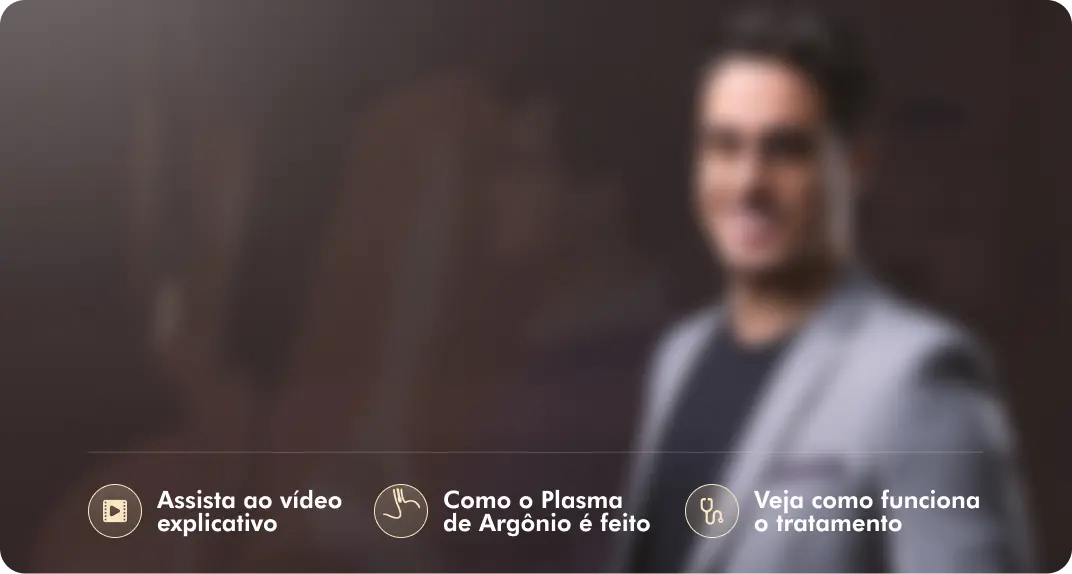
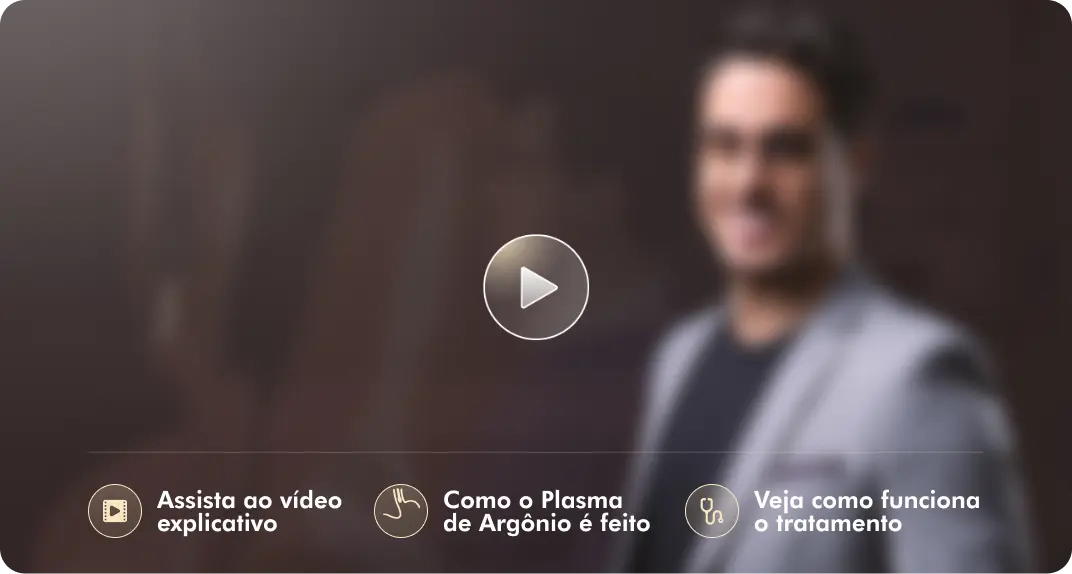
att

Changed region(s): [[0.431, 0.385, 0.5541, 0.5923]]

diff --git a/src/components/Plasma/Advantages.tsx b/src/components/Plasma/Advantages.tsx
@@ -1,0 +1,89 @@
+// src/components/BalaoGastrico/Advantages.tsx
+
+import Ad1 from "../../assets/imagens/balao/ad1.svg"
+import Ad2 from "../../assets/imagens/balao/ad2.svg"
+import Ad3 from "../../assets/imagens/balao/ad3.svg"
+import Seta2 from "../../assets/imagens/gastroplatia/array2.svg"
+
+
+export const Advantages = () => {
+    const cardBackgroundGradient2 = 'linear-gradient(0deg, rgba(70, 179, 60, 1) 23%, rgba(78, 234, 64, 1) 65%)'
+
+    return (
+        <>
+        <section id="vantagens" className="bg-[#F0F2FF] py-20 px-4 border border-t-[#9EB8FF] border-b-[#9EB8FF]">
+            <div className="max-w-6xl mx-auto text-center">
+                <h2 className="text-3xl md:text-4xl font-bold text-[#2D2D2D] mb-16">Vantagens da Balão Gástrico</h2>
+                <div className="grid md:grid-cols-3 gap-8">
+                    {/* Vantagem 1 */}
+                    <div className="bg-white rounded-xl shadow-lg p-8 flex flex-col items-start text-left hover:shadow-2xl transition-shadow duration-300">
+                        <img className="mb-2" src={Ad1} alt="Icone de uma balança" />
+                        <h3 className="font-bold text-lg text-gray-800 mb-3 leading-tight">Procedimento endoscópico, sem cortes</h3>
+                        <p className="text-gray-600 text-sm">
+                            Realizado por via oral, sem necessidade de incisões.
+                        </p>
+                    </div>
+                    {/* Vantagem 2 */}
+                    <div className="bg-white rounded-xl shadow-lg p-8 flex flex-col items-start text-left hover:shadow-2xl transition-shadow duration-300">
+                        <img className="mb-2" src={Ad2} alt="Icone de uma mão segurando um bisturi" />
+                        <h3 className="font-bold text-lg text-gray-800 mb-3 leading-tight">Procedimento endoscópico, sem cortes</h3>
+                        <p className="text-gray-600 text-sm">
+                        Colocado por via oral, sem necessidade de incisões ou cicatrizes. Recuperação rápida e ambulatorial. Não exige internação e permite retorno às atividades em poucos dias.                        </p>
+                    </div>
+                    {/* Vantagem 3 */}
+                    <div className="bg-white rounded-xl shadow-lg p-8 flex flex-col items-start text-left hover:shadow-2xl transition-shadow duration-300">
+                        <img className="mb-2" src={Ad3} alt="Icone significando Reversível" />
+                        <h3 className="font-bold text-lg text-gray-800 mb-3 leading-tight">Reversível</h3>
+                        <p className="text-gray-600 text-sm">
+                            O balão pode ser retirado a qualquer momento, sem comprometer o estômago.
+                        </p>
+                    </div>
+                </div>
+            </div>
+        </section>
+
+        <section id="vantagens" className="bg-[#F0F2FF] py-20 px-4 border ">
+            <div className="max-w-6xl mx-auto text-center">
+                <h2 className="text-3xl md:text-4xl font-bold text-[#2D2D2D] mb-16">Indicações do Balão Gástrico</h2>
+                <div className="grid md:grid-cols-3 gap-8">
+                    {/* Vantagem 1 */}
+                    <div className="bg-white rounded-xl shadow-lg p-8 flex flex-col items-start text-left hover:shadow-2xl transition-shadow duration-300">
+                        <img className="mb-2" src={Ad2} alt="Icone de uma balança" />
+                        <h3 className="font-bold text-lg text-gray-800 mb-3 leading-tight">Pacientes com IMC a partir de 27</h3>
+                        <p className="text-gray-600 text-sm">
+                            Indicado para quem está em sobrepeso ou obesidade e não conseguiu resultado com dieta e exercícios.
+                        </p>
+                    </div>
+                    {/* Vantagem 2 */}
+                    <div className="bg-white rounded-xl shadow-lg p-8 flex flex-col items-start text-left hover:shadow-2xl transition-shadow duration-300">
+                        <img className="mb-2" src={Ad2} alt="Icone de uma mão segurando um bisturi" />
+                        <h3 className="font-bold text-lg text-gray-800 mb-3 leading-tight">Pacientes com comorbidades associadas ao peso</h3>
+                        <p className="text-gray-600 text-sm">
+                        Como diabetes tipo 2, hipertensão, colesterol alto ou problemas ortopédicos.</p>
+                    </div>
+                    {/* Vantagem 3 */}
+                    <div className="bg-white rounded-xl shadow-lg p-8 flex flex-col items-start text-left hover:shadow-2xl transition-shadow duration-300">
+                        <img className="mb-2" src={Ad3} alt="Icone significando Reversível" />
+                        <h3 className="font-bold text-lg text-gray-800 mb-3 leading-tight">Pacientes que não podem ou não desejam cirurgia</h3>
+                        <p className="text-gray-600 text-sm">
+                            Alternativa segura e menos invasiva para quem tem contraindicação ou não quer realizar cirurgia bariátrica.
+                        </p>
+                    </div>
+                </div>
+            </div>
+
+                 <button
+                        className="m-auto mt-9 px-6 py-3 rounded-full flex items-center justify-center text-base font-semibold text-white z-10 group"
+                        style={{ backgroundImage: cardBackgroundGradient2 }}
+                    >
+                        AGENDAR MINHA AVALIAÇÃO
+                        <div className="bg-white/20 rounded-full  ml-4 group-hover:translate-x-1 transition-transform duration-300">
+                            <img src={Seta2} alt="" />
+                        </div>
+                    </button>
+        </section>
+                
+        </>
+
+    );
+};

diff --git a/src/components/Plasma/HowItWorks.tsx b/src/components/Plasma/HowItWorks.tsx
@@ -1,25 +1,22 @@
 import { useState } from "react";
+import { CtaButton } from '../CtaButton';
+
 // Importando a imagem de capa local que já existe no projeto.
 import VideoThumbnail from "../../assets/imagens/plasma/video.webp";
 
 // Componente SVG para a seta
-const Seta2 = () => (
-    <svg className="w-6 h-6" fill="none" stroke="#46B33C" viewBox="0 0 24 24" xmlns="http://www.w3.org/2000/svg">
-        <path strokeLinecap="round" strokeLinejoin="round" strokeWidth="2" d="M14 5l7 7m0 0l-7 7m7-7H3" />
-    </svg>
-);
+
 
 export const HowItWorks = () => {
-    const cardBackgroundGradient2 = 'linear-gradient(0deg, rgba(70, 179, 60, 1) 23%, rgba(78, 234, 64, 1) 65%)';
     const [isPlaying, setIsPlaying] = useState(false);
-    const videoId = "hRQtubuEBaA"; // ID do vídeo do YouTube
+    const videoId = "tOvUH58-83s"; // ID do vídeo do YouTube
 
     const handlePlayClick = () => {
         setIsPlaying(true);
     };
 
     return (
-        <section id="funcionamento" className="bg-[#413E39] py-20 px-4 text-white">
+        <section id="funcionamento" className="bg-[#372D2E] py-20 px-4 text-white">
             <div className="max-w-4xl mx-auto text-center">
                 <p className="text-sm font-semibold text-[#F9E6C1] mb-2 uppercase">Procedimento</p>
                 <h2 className="text-3xl md:text-4xl font-bold mb-4">Como o Plasma de Argônio age no seu corpo?</h2>
@@ -40,7 +37,7 @@ export const HowItWorks = () => {
                     ) : (
                         <iframe
                             className="w-full h-full absolute top-0 left-0"
-                            src={`https://www.youtube.com/embed/${videoId}?autoplay=1&rel=0&start=3`}
+                            src={`https://www.youtube.com/embed/${videoId}?autoplay=1&rel=0&start=0`}
                             allow="accelerometer; autoplay; clipboard-write; encrypted-media; gyroscope; picture-in-picture"
                             allowFullScreen
                             title="Como funciona o Balão Gástrico"
@@ -48,14 +45,12 @@ export const HowItWorks = () => {
                     )}
                 </div>
 
-                {/* Detalhes do Procedimento */}
 
-                <button className="pl-6 pr-2 py-2 rounded-full flex items-center justify-center text-base font-semibold text-white z-10 mx-auto group" style={{ backgroundImage: cardBackgroundGradient2 }}>
+                <div className="mt-12 text-center">
+                    <CtaButton className="m-auto mt-8 self-start">
                     AGENDAR MINHA AVALIAÇÃO
-                    <div className="bg-white rounded-full p-2 ml-4 group-hover:translate-x-1 transition-transform duration-300">
-                        <Seta2 />
-                    </div>
-                </button>
+                    </CtaButton>          
+                </div>
             </div>
         </section>
     );

diff --git a/src/components/Plasma/Benefits.tsx b/src/components/Plasma/Benefits.tsx
@@ -1,0 +1,45 @@
+// src/components/BalaoGastrico/Benefits.tsx
+
+import B1 from "../../assets/imagens/balao/b1.svg"
+import B2 from "../../assets/imagens/balao/b2.svg"
+import B3 from "../../assets/imagens/balao/b3.svg"
+
+
+
+export const Benefits = () => {
+    const sectionBgColor = 'linear-gradient(180deg,rgba(61, 71, 103, 1) 0%, rgba(52, 61, 89, 1) 100%)';
+
+    return (
+        <section id="beneficios" className=" px-4 text-whit bg-white" >
+            <div className="p-17 rounded-2xl max-w-6xl mx-auto" style={{backgroundImage: sectionBgColor}}>
+                <h2 className="text-3xl md:text-4xl font-bold mb-12 text-center">Benefícios do Balão Gástrico</h2>
+                <div className="grid md:grid-cols-3 gap-8">
+                    {/* Benefício 1 */}
+                    <div className="border border-gray-600 rounded-lg p-8 flex flex-col  hover:border-white transition-colors duration-300">
+                        <img src={B1} alt="icone segurando um bisturi"  className="w-7"/>
+                        <h3 className="font-bold mt-2">Recuperar a saciedade</h3>
+                        <p className="text-gray-400 text-sm">
+                        Voltar a sentir satisfação com pequenas porções de alimento.
+                        </p>
+                    </div>
+                    {/* Benefício 2 */}
+                    <div className="border border-gray-600 rounded-lg p-8 flex flex-col  hover:border-white transition-colors duration-300">
+                        <img src={B2} alt="icone"  className="w-7"/>
+                        <h3 className="font-bold mt-2">Retomar o emagrecimento</h3>
+                        <p className="text-gray-400 text-sm">
+                        Eliminar o peso recuperado sem precisar de nova cirurgia.
+                        </p>
+                    </div>
+                    {/* Benefício 3 */}
+                    <div className="border border-gray-600 rounded-lg p-8 flex flex-col  hover:border-white transition-colors duration-300">
+                        <img src={B3} alt="icone" className="w-7" />
+                        <h3 className="font-bold mt-2 leading-tight">Melhorar autoestima e qualidade de vida</h3>
+                        <p className="text-gray-400 text-sm">
+                            Sentir-se novamente no controle do corpo e da saúde
+                        </p>
+                    </div>
+                </div>
+            </div>
+        </section>
+    );
+};

diff --git a/src/components/Plasma/Intro.tsx b/src/components/Plasma/Intro.tsx
@@ -1,0 +1,37 @@
+// src/components/BalaoGastrico/Intro.tsx
+import BalaoImagem from "../../assets/imagens/plasma/argonio.webp";
+import { CtaButton } from '../CtaButton';
+
+
+export const Intro = () => {
+
+    return (
+        <section id="o-que-e" className="bg-white py-20 px-4 text-gray-800">
+            <div className="max-w-6xl mx-auto grid md:grid-cols-2 gap-12 items-center">
+                {/* Coluna de Texto */}
+                <div className="text-left">
+                    <h2 className="text-3xl md:text-4xl font-bold mb-6">Qual a finalidade do <br />Plasma de Argônio?</h2>
+                    <p className="text-gray-600 mb-3">
+                    O Plasma de Argônio é um tratamento endoscópico, minimamente invasivo, indicado para pacientes que voltaram a ganhar peso após a cirurgia bariátrica.                    </p>
+                    <p className="text-gray-600 mb-3">
+                    Durante o procedimento, o gás de argônio promove a cicatrização da anastomose (união entre estômago e intestino), reduzindo seu diâmetro.                    </p>
+                    <p className="text-gray-600 mb-3">
+                    Com isso, o paciente recupera a sensação de saciedade, retoma o controle alimentar e volta a perder peso sem precisar de nova cirurgia.
+                    </p>
+
+
+                    <div className=" text-center">
+                        <CtaButton className=" mt-8 self-start">
+                        AGENDAR MINHA AVALIAÇÃO
+                        </CtaButton>          
+                    </div>
+                </div>
+
+                {/* Coluna de Imagem */}
+                <div className="flex items-center justify-center">
+                    <img src={BalaoImagem} alt="Ilustração do Balão Gástrico no estômago" className="rounded-lg shadow-xl w-full max-w-md" />
+                </div>
+            </div>
+        </section>
+    );
+};

diff --git a/src/components/Plasma/PlasmaInfo.tsx b/src/components/Plasma/PlasmaInfo.tsx
@@ -1,0 +1,26 @@
+// src/components/common/PlasmaInfo.tsx
+import Curva from "../../assets/imagens/plasma/curva.png"
+
+export const PlasmaInfo = () => {
+    const sectionBgColor = 'linear-gradient(180deg,rgba(72, 56, 58, 1) 0%, rgba(55, 43, 45, 1) 100%)';
+
+    return (
+        // Um contentor com a cor de fundo da secção de cima para preencher o espaço do recorte.
+        <div  className="relative bg-[#483839] pt-7 pb-7" style={{ backgroundImage: sectionBgColor }} >
+            <img src={Curva} className="absolute m-auto top-0 left-0 right-0" alt="imagem de uma curvatura" />
+
+                {/* O conteúdo da secção */}
+                <div className="relative pt-24 pb-20 px-4 z-10">
+                    <div className=" text-center">
+                        <h2 className="text-3xl md:text-4xl font-bold mb-6">
+                            O que é Plasma de Argônio?
+                        </h2>
+                        <p className="text-white leading-relaxed  mx-auto text-center">
+                            Trata-se de um tratamento realizado por meio de endoscopia digestiva que consiste na aplicação <br /> controlada de gás argônio e corrente elétrica para reduzir as dimensões da emenda (anastomose), <br /> realizada durante a cirurgia bariátrica, entre o estômago e o intestino. É um procedimento <br /> ambulatorial minimamente invasivo e com poucos efeitos colaterais.
+                        </p>
+                    </div>
+                </div>
+            
+        </div>
+    );
+};

diff --git a/src/pages/BalaoGastrico.tsx b/src/pages/BalaoGastrico.tsx
@@ -199,7 +199,7 @@ function BalaoGastrico(){
             <h1 className="text-4xl md:text-5xl lg:text-4xl font-[700] ">EMAGRECIMENTO <span className="bg-[#e40000]">SEM CORTES</span>  <br /> COM O BALÃO GÁSTRICO</h1>
             <p className="mb-5 font-[100] mt-2">Método moderno, não invasivo e seguro <br /> para quem busca resultados reais com <br /> acompanhamento médico especializado.</p>
             <div className="mt-5 flex items-center flex-wrap">
-              <button className="bg-background: #46B33C; pl-4 p-2 rounded-[2rem] flex items-center justify-center lg:text-[12px] font-[500] text-white z-9" style={{ backgroundImage: cardBackgroundGradient2 }}>
+              <button className="pl-4 p-2 rounded-[2rem] flex items-center justify-center lg:text-[12px] font-[500] text-white z-9" style={{ backgroundImage: cardBackgroundGradient2 }}>
               AGENDAR MINHA AVALIAÇÃO
               <img src={Seta2} alt="Seta apontado para cima" className="w-8 ml-3" />
               </button>

diff --git a/src/pages/Plasma.tsx b/src/pages/Plasma.tsx
@@ -4,6 +4,10 @@ import Fundo from "../assets/imagens/plasma/fundo2.webp";
 import Seta2 from "../assets/imagens/gastroplatia/array2.svg";
 import Black from "../assets/imagens/Black.png";
 import { HowItWorks } from "../components/Plasma/HowItWorks";
+import { PlasmaInfo } from "../components/Plasma/PlasmaInfo"; // Importado aqui
+import { Intro } from "../components/Plasma/Intro";
+import { Benefits } from "../components/Plasma/Benefits";
+import { Advantages } from "../components/Plasma/Advantages";
 
 function Plasma(){
 
@@ -197,6 +201,10 @@ function Plasma(){
 
 
             <HowItWorks/>
+            <PlasmaInfo />
+            <Intro/>
+            <Benefits/>
+            <Advantages/>
         </main>     
       </>
     )

diff --git a/src/components/BalaoGastrico/HowItWorks.tsx b/src/components/BalaoGastrico/HowItWorks.tsx
@@ -41,7 +41,7 @@ export const HowItWorks = () => {
                     ) : (
                         <iframe
                             className="w-full h-full absolute top-0 left-0"
-                            src={`https://www.youtube.com/embed/${videoId}?autoplay=1&rel=0&start=3`}
+                            src={`https://www.youtube.com/embed/${videoId}?autoplay=1&rel=0&start=0`}
                             allow="accelerometer; autoplay; clipboard-write; encrypted-media; gyroscope; picture-in-picture"
                             allowFullScreen
                             title="Como funciona o Balão Gástrico"
